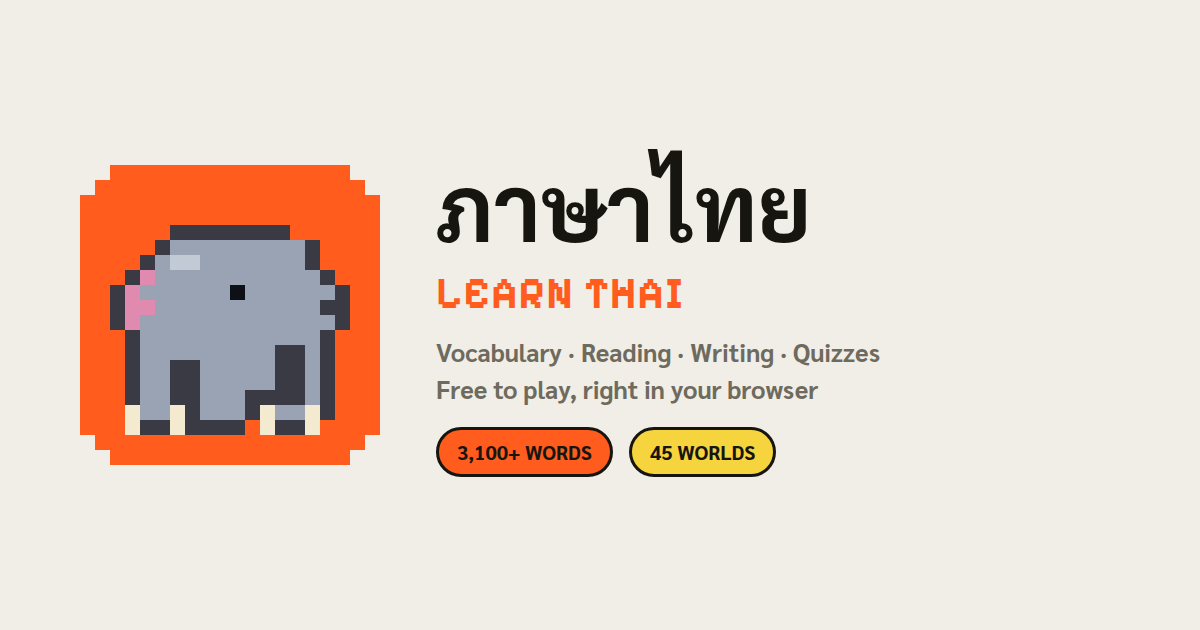
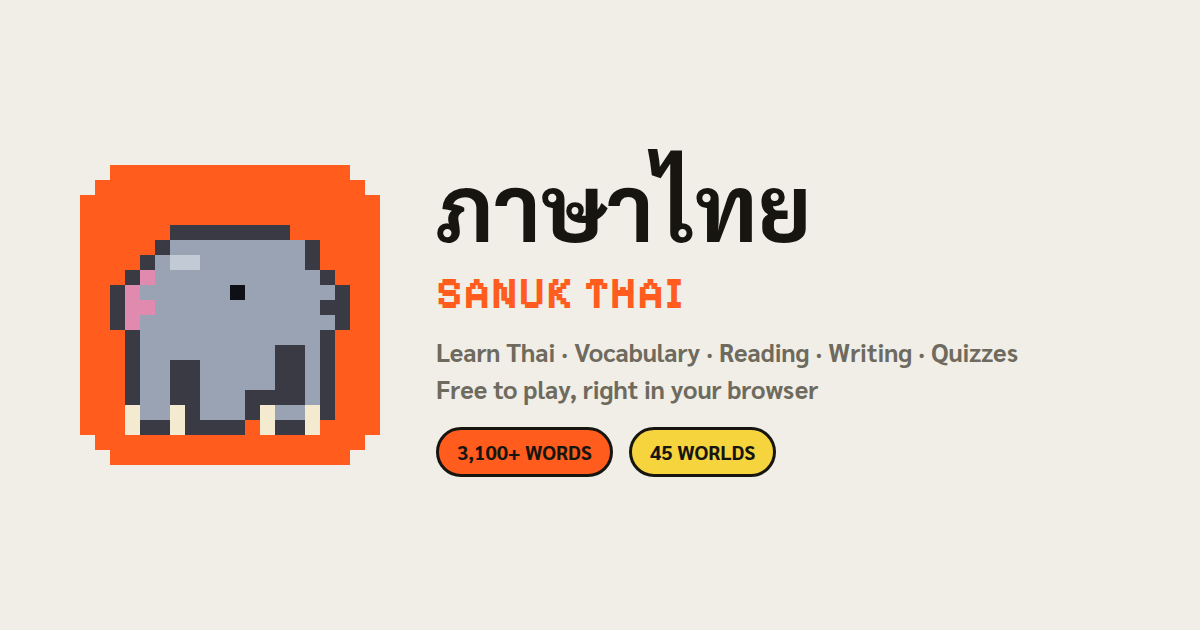
Rename app to Sanuk Thai
Update app.json display name, HTML title/OG/Twitter meta tags, the
in-app header subtitle, and the OG share-card art to the chosen name.
Slug, baseUrl, and bundle identifiers are left untouched so the live
GitHub Pages URL keeps working.

Claude-Session: https://claude.ai/code/session_01Nqf9oND94TtQWVNeXsmu7Z

Changed region(s): [[0.3392, 0.5429, 0.8633, 0.6032], [0.37, 0.4222, 0.4933, 0.4825]]

diff --git a/app/+html.tsx b/app/+html.tsx
@@ -12,20 +12,20 @@ export default function Root({ children }: PropsWithChildren) {
           content="width=device-width, initial-scale=1, shrink-to-fit=no, viewport-fit=cover"
         />
         <meta name="theme-color" content="#f0eee7" />
-        <title>ภาษาไทย — Learn Thai</title>
-        <meta name="description" content="Learn Thai with 2,600+ words, reading and writing practice, quizzes and a global leaderboard. Free to play, right in your browser." />
+        <title>Sanuk Thai — Learn Thai</title>
+        <meta name="description" content="Sanuk Thai: learn Thai with 3,100+ words, reading and writing practice, quizzes and a global leaderboard. Free to play, right in your browser." />
         {/* Open Graph / social sharing */}
         <meta property="og:type" content="website" />
-        <meta property="og:site_name" content="ภาษาไทย — Learn Thai" />
-        <meta property="og:title" content="ภาษาไทย — Learn Thai" />
-        <meta property="og:description" content="Learn Thai with 2,600+ words, reading and writing practice, quizzes and a global leaderboard. Free to play, right in your browser." />
+        <meta property="og:site_name" content="Sanuk Thai" />
+        <meta property="og:title" content="Sanuk Thai — Learn Thai" />
+        <meta property="og:description" content="Sanuk Thai: learn Thai with 3,100+ words, reading and writing practice, quizzes and a global leaderboard. Free to play, right in your browser." />
         <meta property="og:url" content="https://murcielay2k.github.io/thaiapp/" />
         <meta property="og:image" content="https://murcielay2k.github.io/thaiapp/og.png" />
         <meta property="og:image:width" content="1200" />
         <meta property="og:image:height" content="630" />
         <meta name="twitter:card" content="summary_large_image" />
-        <meta name="twitter:title" content="ภาษาไทย — Learn Thai" />
-        <meta name="twitter:description" content="Learn Thai with 2,600+ words, reading and writing practice, quizzes and a global leaderboard." />
+        <meta name="twitter:title" content="Sanuk Thai — Learn Thai" />
+        <meta name="twitter:description" content="Sanuk Thai: learn Thai with 3,100+ words, reading and writing practice, quizzes and a global leaderboard." />
         <meta name="twitter:image" content="https://murcielay2k.github.io/thaiapp/og.png" />
         <link rel="apple-touch-icon" href="/thaiapp/apple-touch-icon.png" />
         {/* Sanuk Spirit Realm — Google Fonts */}

diff --git a/components/tabs/LearnTab.tsx b/components/tabs/LearnTab.tsx
@@ -276,7 +276,7 @@ export default function LearnTab() {
       <View style={styles.topBar}>
         <View style={styles.topLeft}>
           <Text style={styles.topTitle}>ภาษาไทย</Text>
-          <Text style={styles.topSub}>LEARN THAI</Text>
+          <Text style={styles.topSub}>SANUK THAI</Text>
         </View>
         <HeartsBar />
       </View>